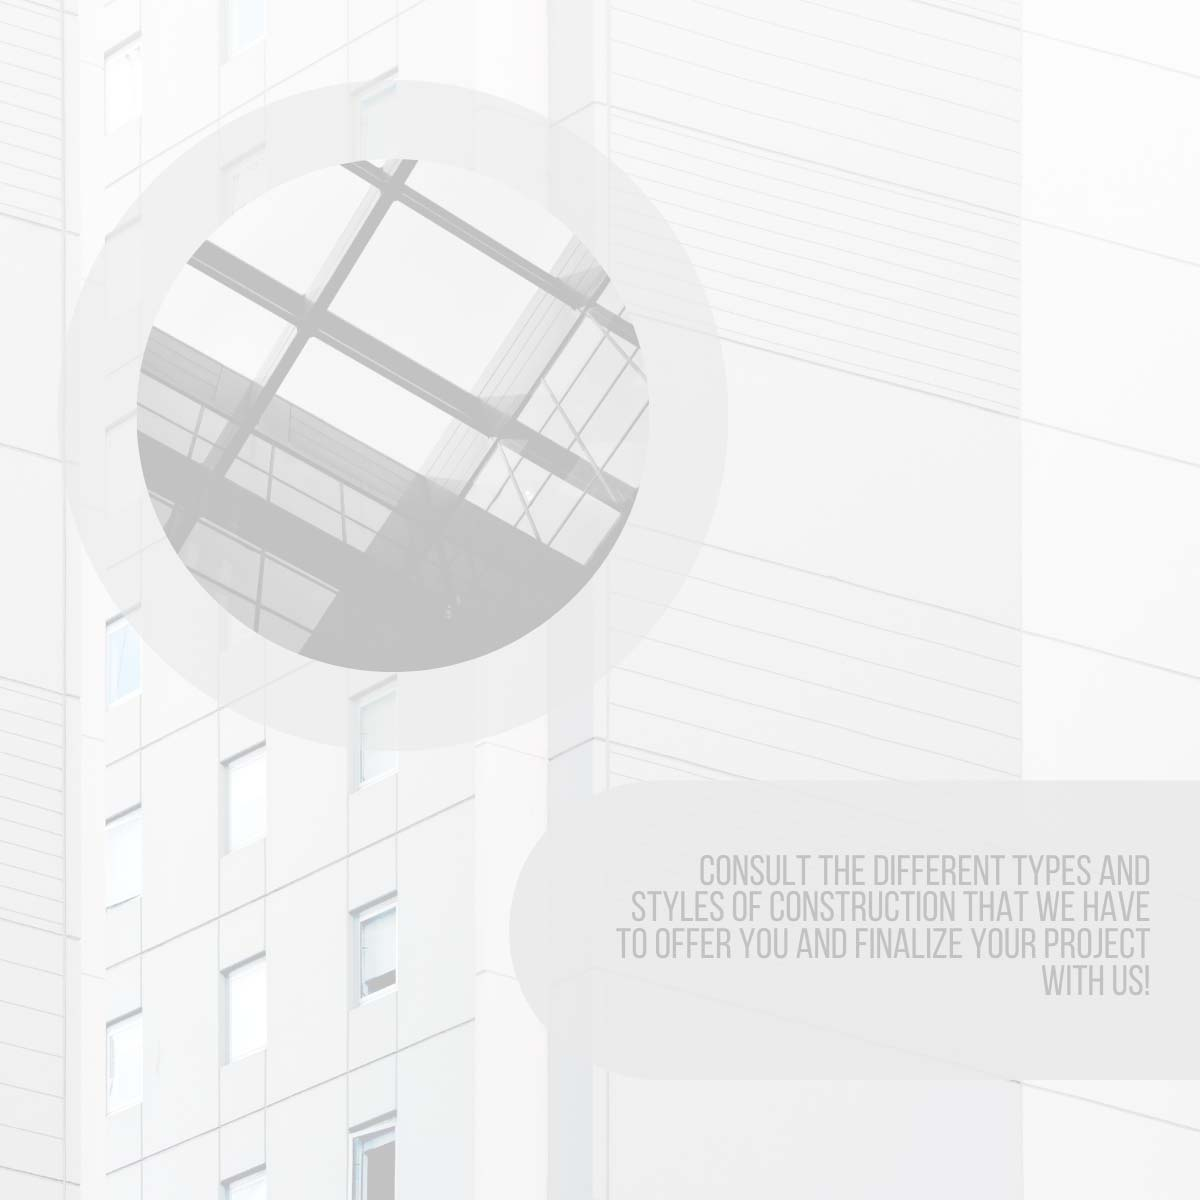
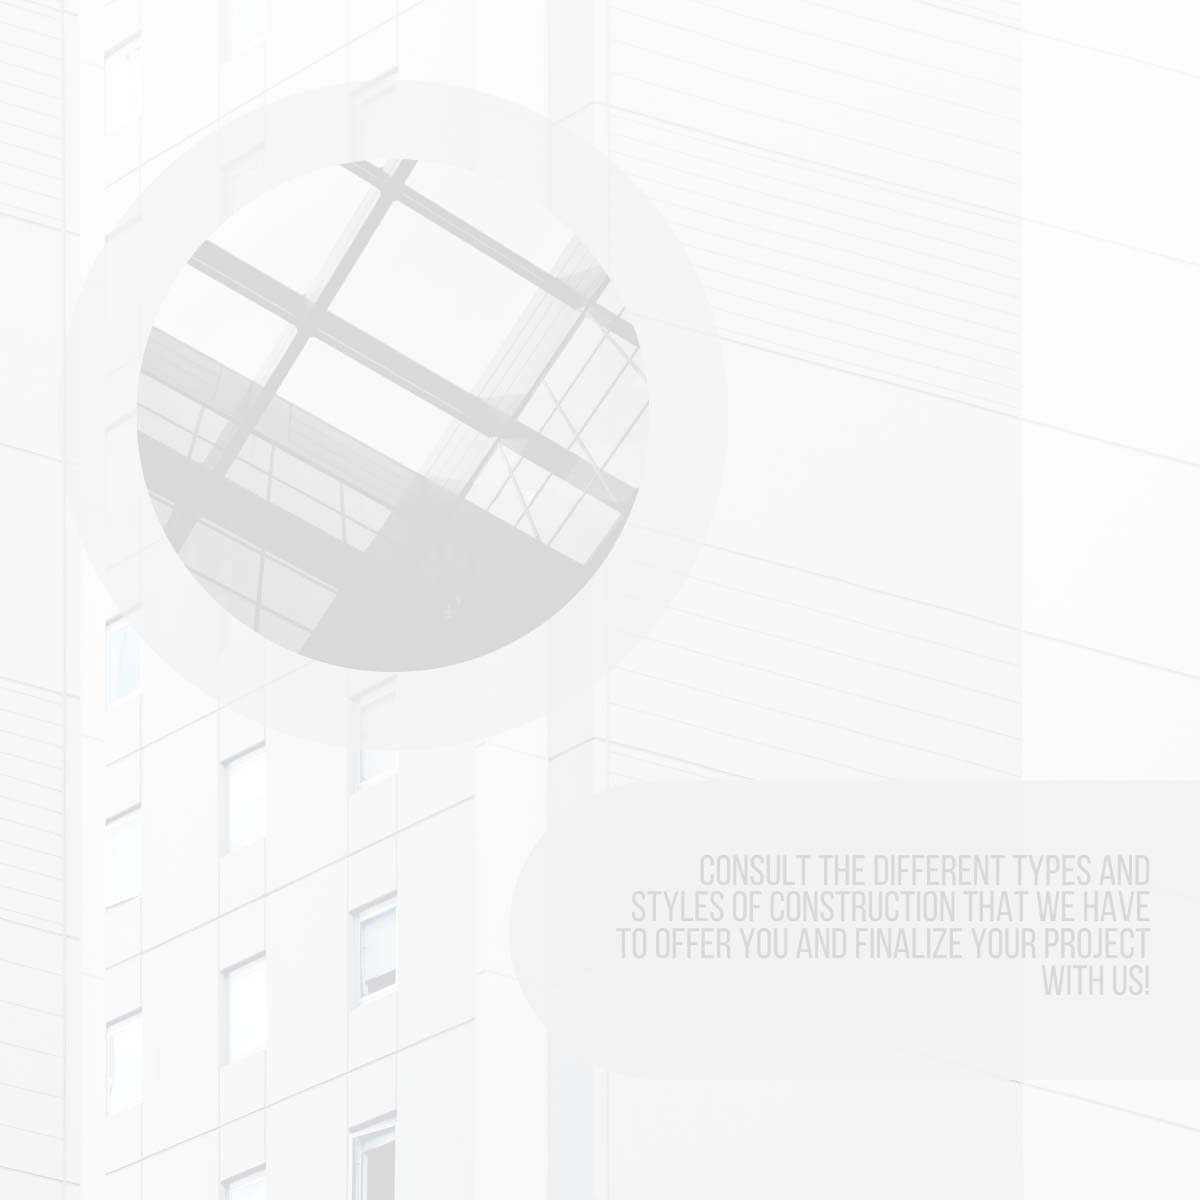
Fixing html

diff --git a/index.html b/index.html
@@ -20,8 +20,8 @@
     <link href="article.css" rel="stylesheet">
     <link href="form.css" rel="stylesheet">
     <script defer src="js/script2.js">
-        < link href="https://fonts.googleapis.com/css2?family=Oswald:wght@200&display=swap"
-            rel="stylesheet" >
+        <link href="https://fonts.googleapis.com/css2?family=Oswald:wght@200&display=swap"
+            rel="stylesheet"/>
     </script>
     <style>
         @import url('https://fonts.googleapis.com/css2?family=Oswald:wght@200&display=swap');

diff --git a/style2.css b/style2.css
@@ -16,7 +16,7 @@ html {
     color: #333;
     background-color: rgb(208, 201, 168);
     font: 25px/2 'Oswald', sans-serif;
-    background-image: url("../images/background2.jpg");
+    background-image: url("https://i.postimg.cc/Zq5DTc79/Background.jpg");
     background-repeat: space repeat; 
     background-position: center;
     background-attachment: fixed;

diff --git a/nav.css b/nav.css
@@ -7,7 +7,6 @@
 }
 
 .nav__item {
-    margin: 0;
     text-align: center;
     padding: 20px 0px;
     display: inline-block;
